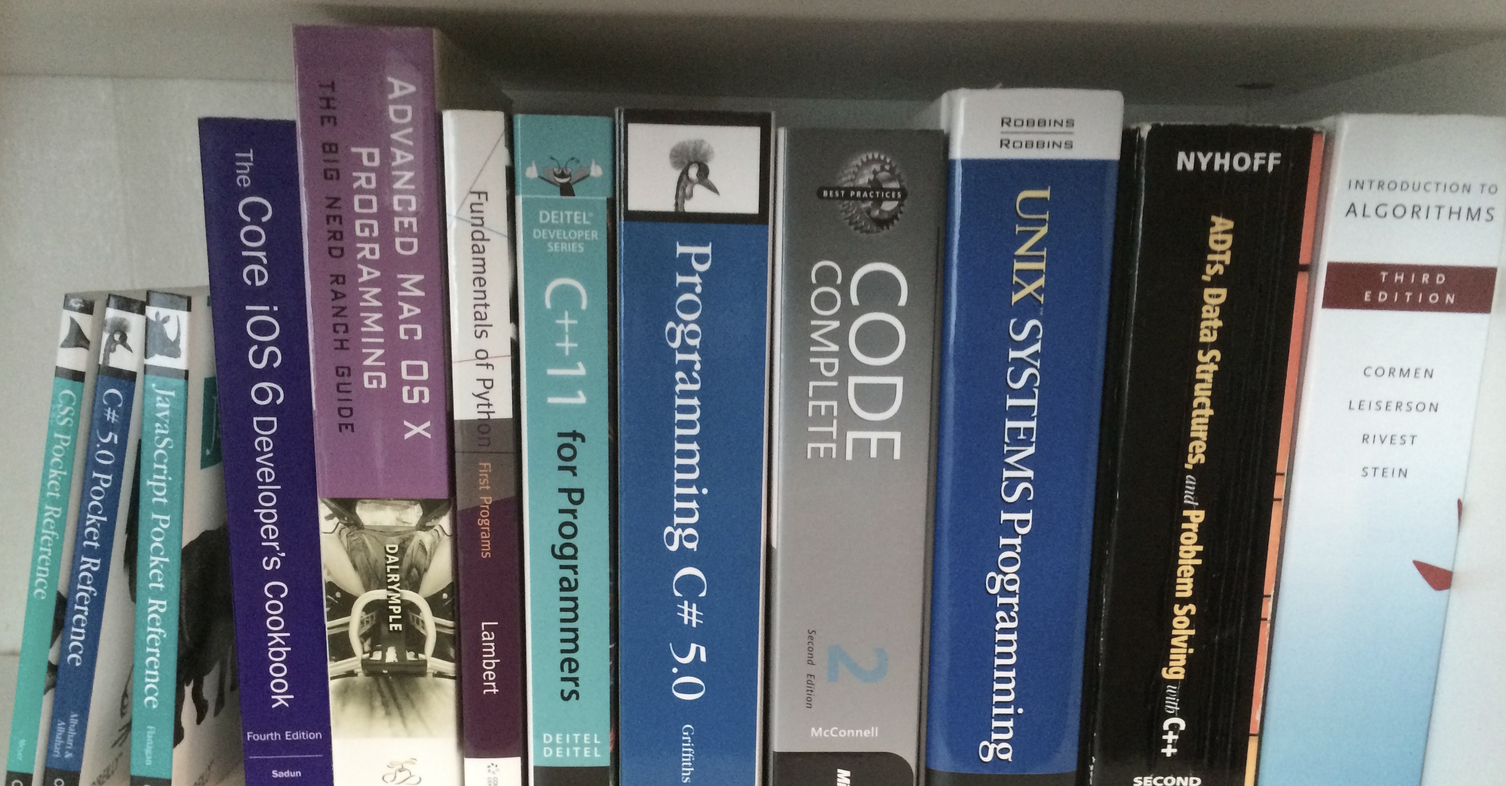
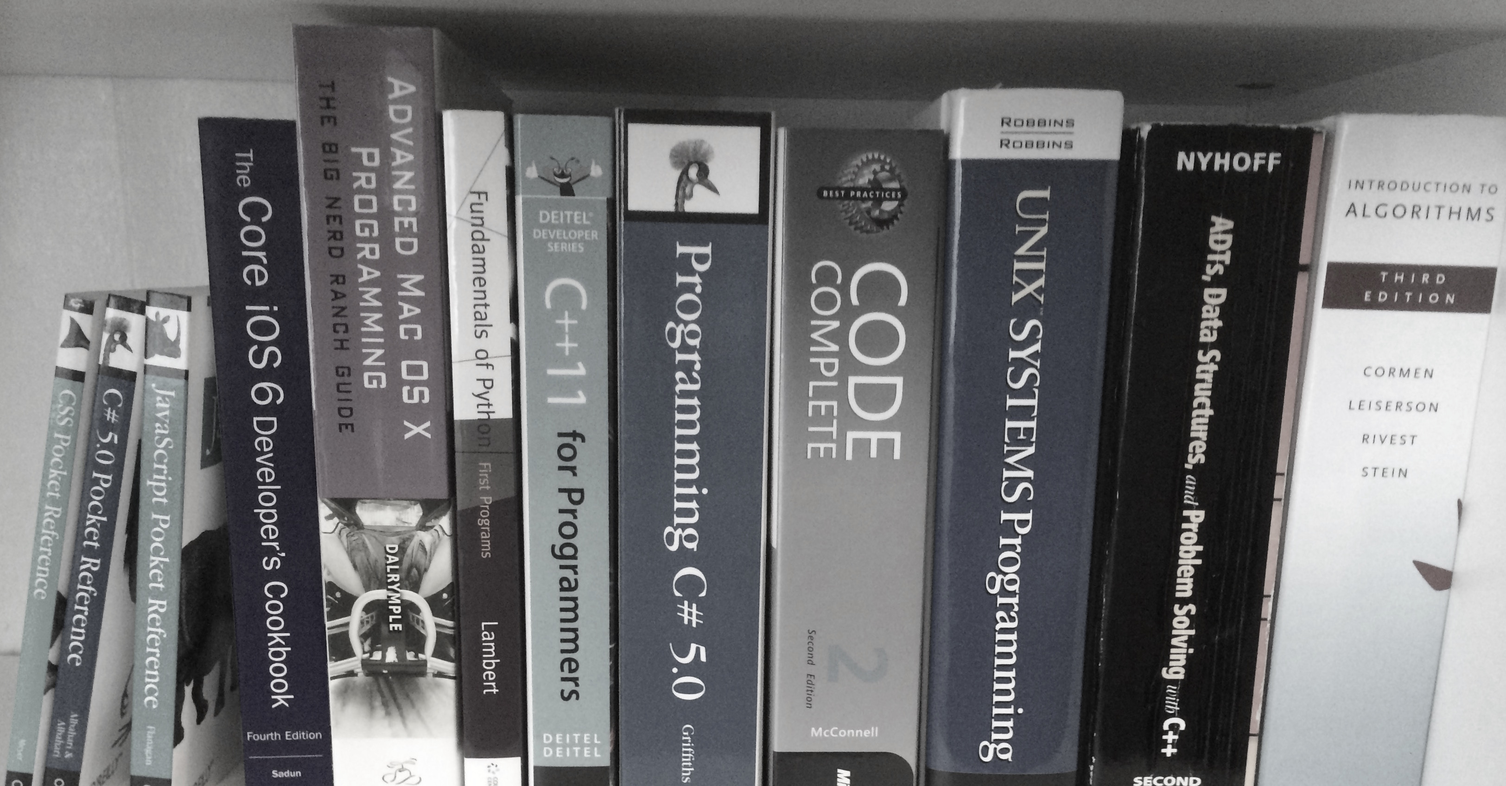
Updating Image for Education

diff --git a/src/css/education.css b/src/css/education.css
@@ -1,6 +1,6 @@
 .jumbotron{
   height: 500px;
-  background:url('../../images/bookscopy.jpg') no-repeat center center;
+  background:url('../../images/books.jpg') no-repeat center center;
   /* Code to keep the image centered */
   -webkit-background-size: cover;
   -moz-background-size: cover;
